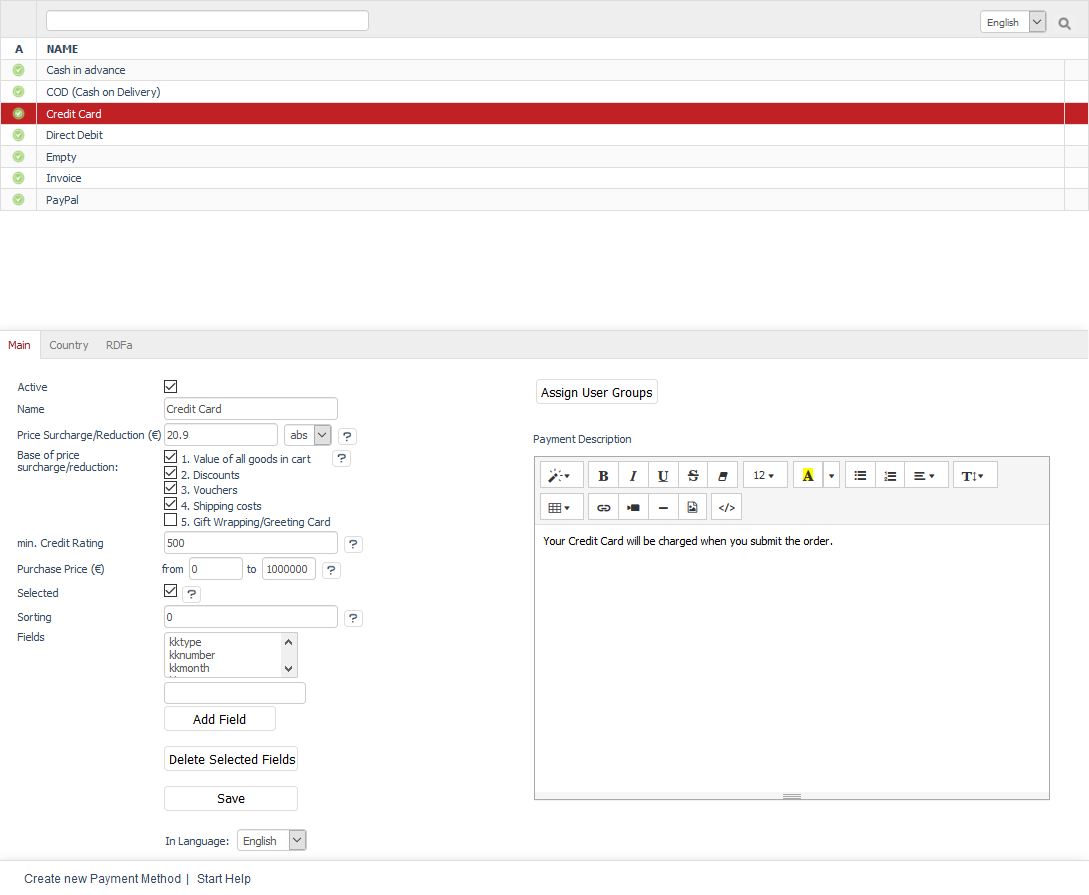
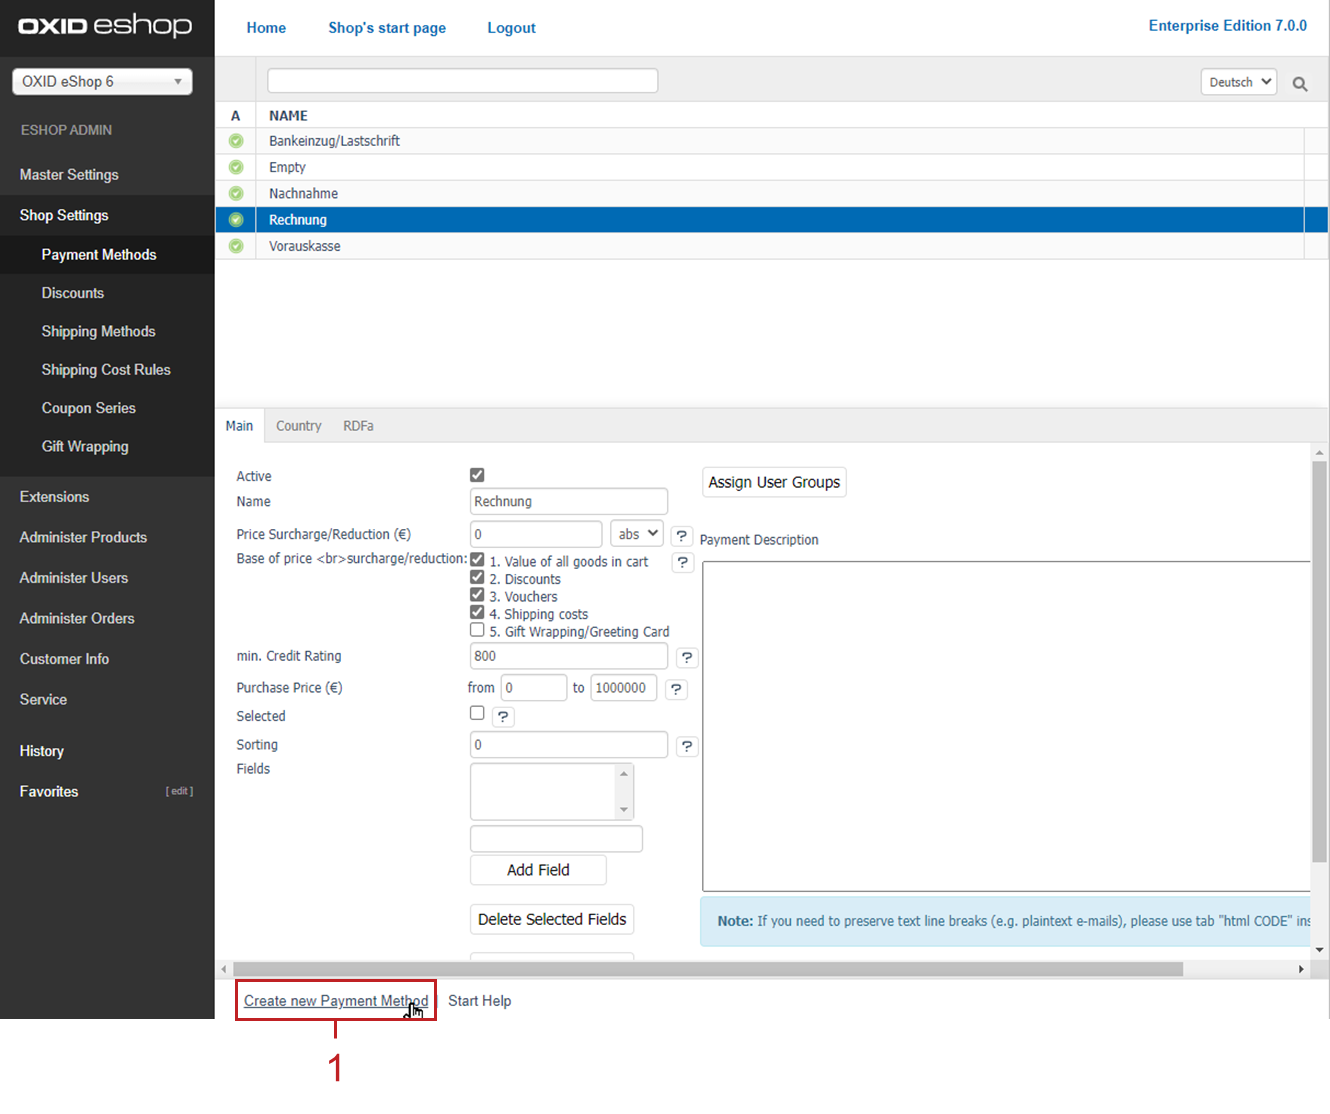
Crossrefs corrected -- EN

diff --git a/setup/payment-methods/payment-methods.rst b/setup/payment-methods/payment-methods.rst
@@ -5,18 +5,26 @@ Payment and shipping are important functions in an online shop. They are determi
 
 Customers who shop in your shop can choose how they want to pay in the third ordering step. The choice of payment methods depends on whether there is a payment method for the country from which a customer orders. The customer should also belong to a user group to which this payment method applies.
 
-All required settings can be configured in the Admin panel under :menuselection:`Shop Settings --> Payment Methods`. You will see a list of all payment methods with their names and the input area right below it. You can search for payment methods by entering their name in the search field. Payment methods can be sorted in the list view by active/not active or name by clicking on the respective column heading. The payment methods are thereby displayed in ascending order.
+All required settings can be configured in the Admin panel under :menuselection:`Shop Settings --> Payment Methods`. You will see a list of all payment methods with their names and the input area right below it.
+
+You can search for payment methods by entering their name in the search field. Payment methods can be sorted in the list view by active/not active or name by clicking on the respective column heading. The payment methods are thereby displayed in ascending order.
 
 Newly created payment methods can also be deleted. They can be permanently removed from the database by clicking on the trash icon at the end of the line. Payment methods available in the shop can only be deactivated if they are not going to be used.
 
-When you select a payment method from the list, its information will be displayed in the input area. To create a new payment method, click on :guilabel:`Create new Payment Method` at the bottom of the screen.
+When you select a payment method from the list, its information will be displayed in the input area. To create a new payment method, click on :guilabel:`Create new Payment Method` at the bottom of the screen (:ref:`oxbacz01`, item 1).
 
-.. image:: ../../media/screenshots/oxbacz01.png
-   :alt: Payment methods
-   :height: 534
+.. _oxbacz01:
+
+.. figure:: ../../media/screenshots/oxbacz01.png
+   :alt: Creating a new payment method
+   :class: with-shadow
    :width: 650
 
-OXID eShop comes with the following payment methods: \"Direct Debit\", \"Empty\", \"COD (Cash on Delivery)\", \"Invoice\" and \"Cash in advance\". They can be used after being customised. Unused payment methods should be deactivated with the exception of \"Empty\". This is a sort of fall-back payment method that allows customers to complete the ordering process even if the defined payment and shipping conditions don’t apply to a country active in the shop. The customer will still be able to place an order. The seller will have to clarify the payment and shipping conditions with the customer afterwards.
+   Abb.: Creating a new payment method
+
+OXID eShop comes with the following payment methods: \"Direct Debit\", \"Empty\", \"COD (Cash on Delivery)\", \"Invoice\" and \"Cash in advance\". They can be used after being customised.
+
+Unused payment methods should be deactivated with the exception of \"Empty\". This is a sort of fall-back payment method that allows customers to complete the ordering process even if the defined payment and shipping conditions don’t apply to a country active in the shop. The customer will still be able to place an order. The seller will have to clarify the payment and shipping conditions with the customer afterwards.
 
 You can also create new payment methods. New payment methods, such as PayPal, may be added when installing payment modules, if necessary.
 

diff --git a/installation/new-installation/preparing-for-installation.rst b/installation/new-installation/preparing-for-installation.rst
@@ -11,7 +11,7 @@ Some preparations are necessary for the new installation of OXID eShop 7.0.
 
 As of version 6, OXID eShop is no longer installed based on packaged and downloadable installation packages but with the help of Composer. Composer is a dependency manager for PHP, a tool that takes into account the dependencies of a project’s program components while installing the files of that project in a defined directory.
 
-Composer is required for the new installation of OXID eShop.
+You need Composer for the new installation of OXID eShop. See :ref:`installation/new-installation/server-and-system-requirements:Server and system requirements` section :ref:`installation/new-installation/server-and-system-requirements:Composer`.
 
 Installation instructions can be found in the “Getting Started” section of the Composer website: http://getcomposer.org.
 

diff --git a/setup/payment-methods/rdfa-tab.rst b/setup/payment-methods/rdfa-tab.rst
@@ -5,6 +5,8 @@ OXID eShop provides well-prepared information for search engines, portals and ot
 
 The :guilabel:`RDFa` tab establishes a logical link between the payment method and the payment values predefined in GoodRelations.
 
+
+
 .. image:: ../../media/screenshots/oxbadc01.png
    :alt: Payment methods - RDFa tab
    :height: 343

diff --git a/installation/new-installation/server-and-system-requirements.rst b/installation/new-installation/server-and-system-requirements.rst
@@ -20,7 +20,7 @@ The following system requirements must be met to operate OXID eShop version 7.
 Webserver
 ---------
 
-.. todo: #VL verify
+.. todo: #VaL verify
 
 * Apache version 2.2 or 2.4 (on Linux)
 * 500 MB of free webspace for Community and Professional Edition

diff --git a/installation/new-installation/running-setup.rst b/installation/new-installation/running-setup.rst
@@ -1,7 +1,7 @@
 Running setup
 =============
 
-To get your OXID eShop ready for launch, run the setup either web-based or via command line.
+To get your OXID eShop ready for launch, run the setup.
 
 In the following, we describe the web-based setup.
 

diff --git a/installation/new-installation/index.rst b/installation/new-installation/index.rst
@@ -8,4 +8,5 @@
    server-and-system-requirements
    preparing-for-installation
    running-setup
+   setup-command-line.rst
    completing-installation

diff --git a/installation/new-installation/setup-command-line.rst b/installation/new-installation/setup-command-line.rst
@@ -1,4 +1,3 @@
-:orphan:
 Setup via command line
 ======================
 
